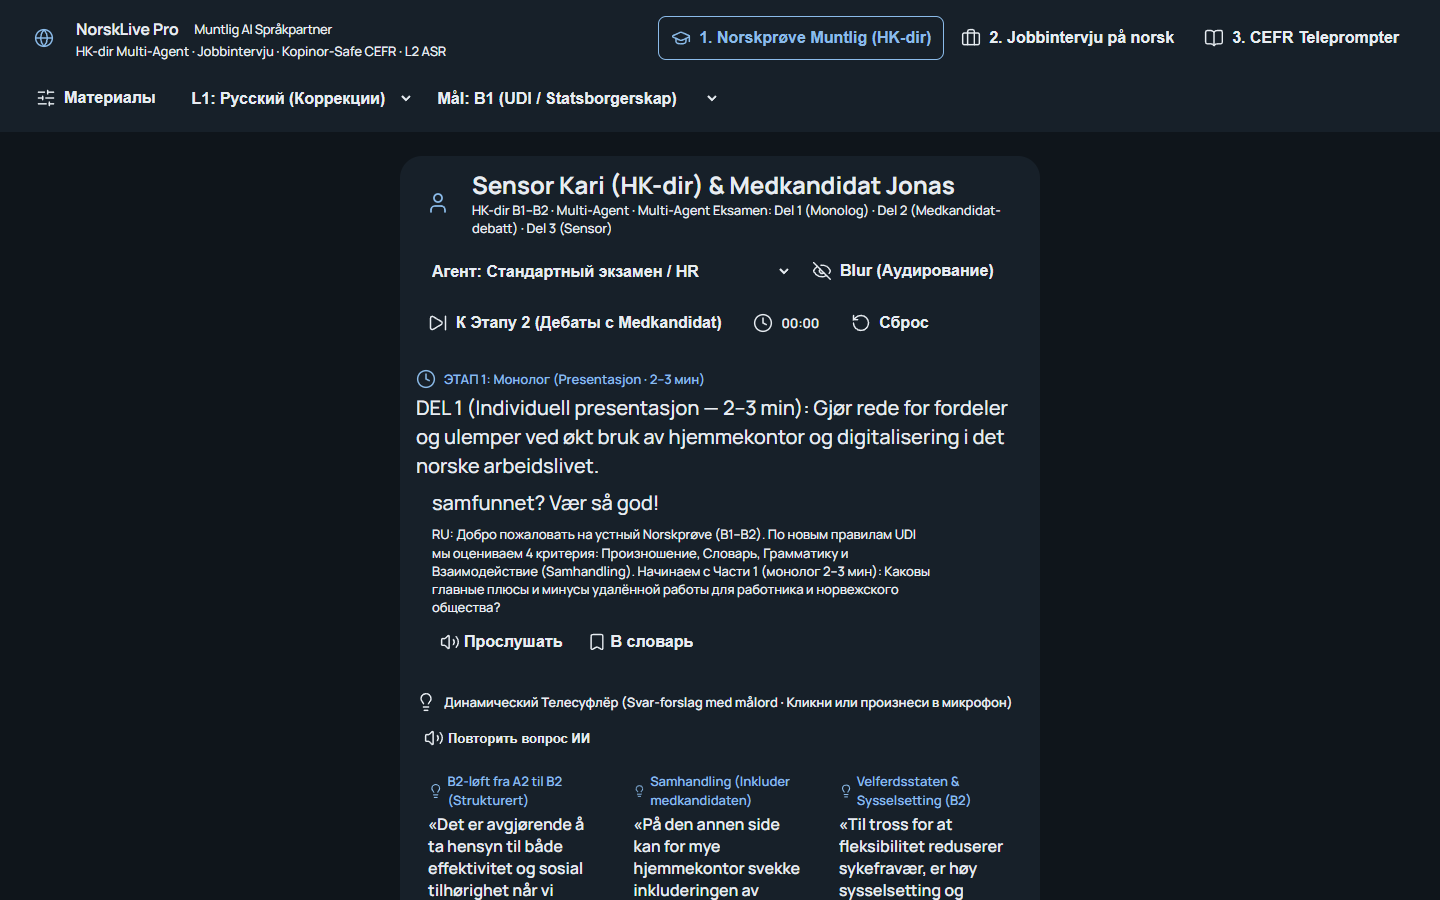
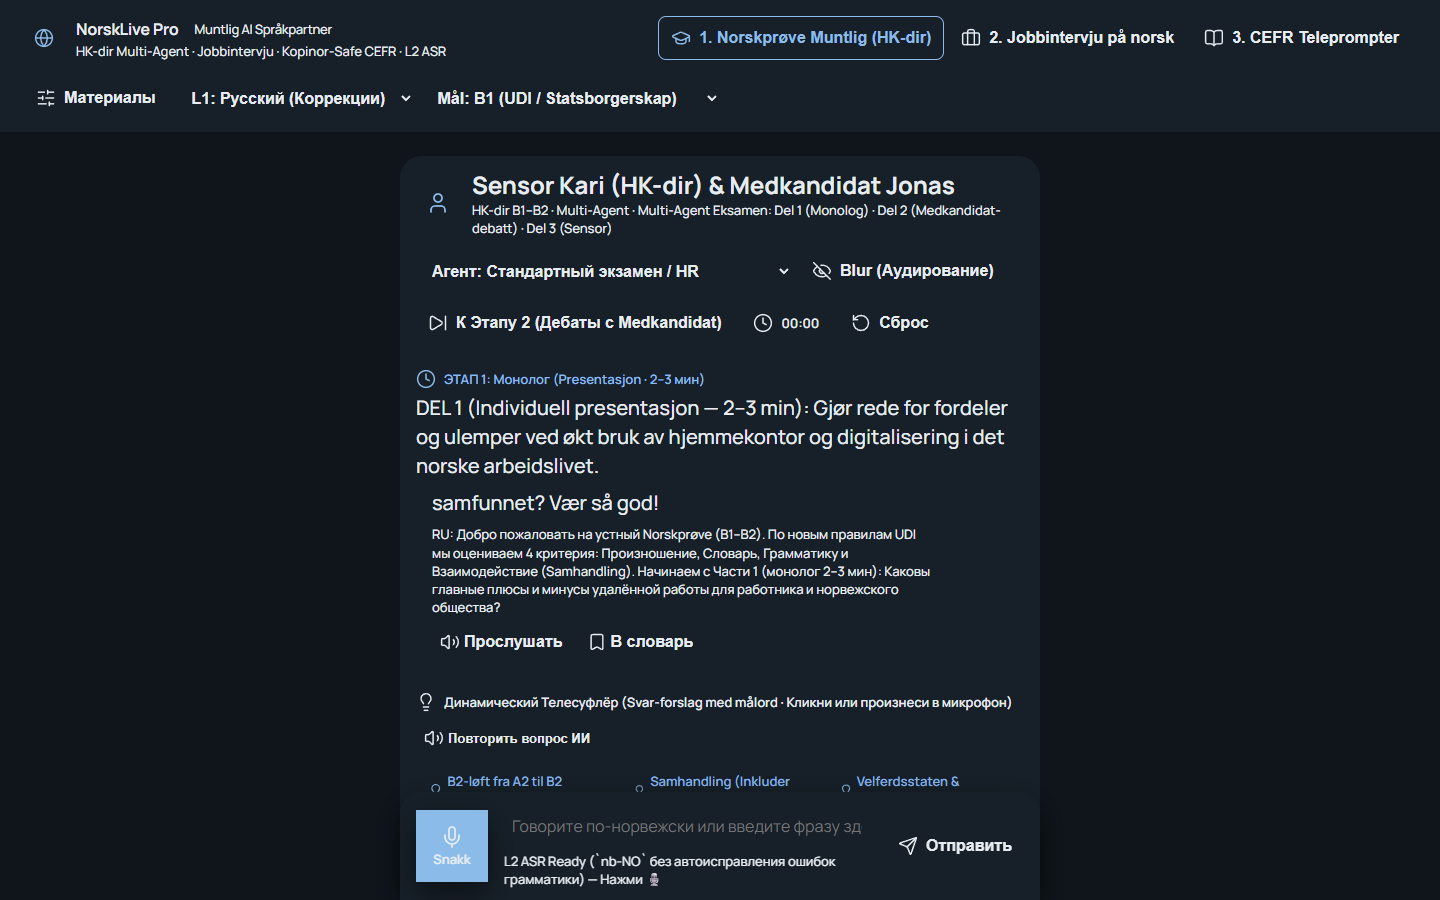
style(m1c-1): pin MicButton bottom dock to viewport bottom and update screenshots

Changed region(s): [[0.2812, 0.8711, 0.7188, 1.0]]

diff --git a/src/app/studio/studio.css b/src/app/studio/studio.css
@@ -203,6 +203,7 @@ body {
   width: 100%;
   max-width: 40rem;
   margin: 0 auto;
+  padding-bottom: 7.5rem;
   overflow: visible;
 }
 
@@ -761,14 +762,18 @@ body {
 
 /* VOICE DOCK & 72PX MICBUTTON (DESIGN SYSTEM §8) */
 .voice-dock {
-  position: sticky;
+  position: fixed;
   bottom: 0;
-  z-index: 30;
+  left: 50%;
+  transform: translateX(-50%);
+  width: 100%;
+  max-width: 40rem;
+  z-index: 40;
   padding: var(--space-3) var(--space-4);
   background: var(--surface);
-  border-top: 1px solid var(--border);
-  border-bottom-left-radius: var(--radius-lg);
-  border-bottom-right-radius: var(--radius-lg);
+  border: 1px solid var(--border);
+  border-top-left-radius: var(--radius-lg);
+  border-top-right-radius: var(--radius-lg);
   box-shadow: var(--shadow-float);
   display: flex;
   align-items: center;
